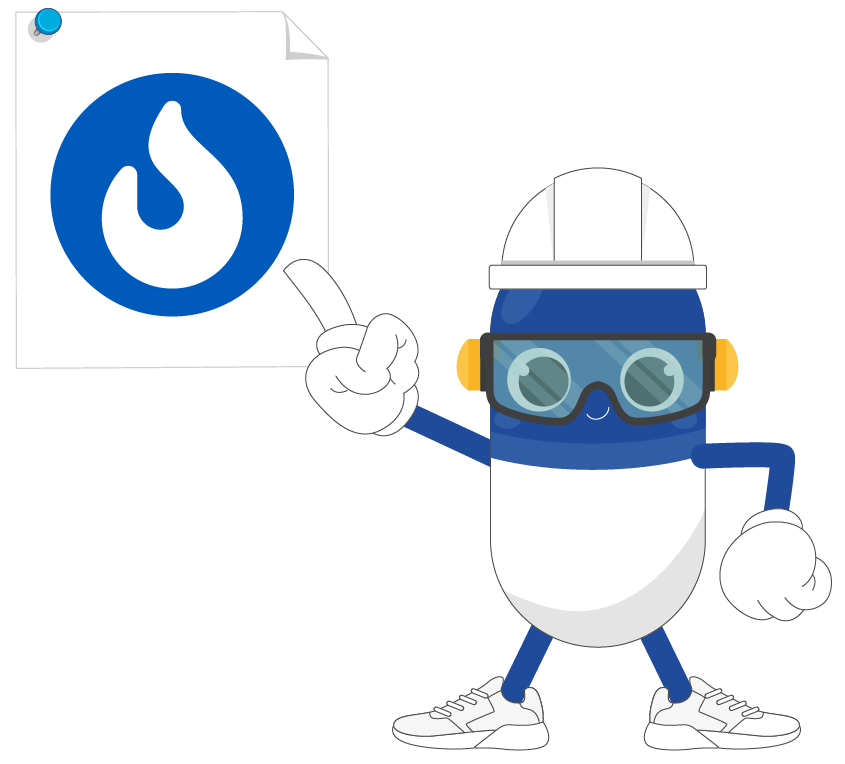
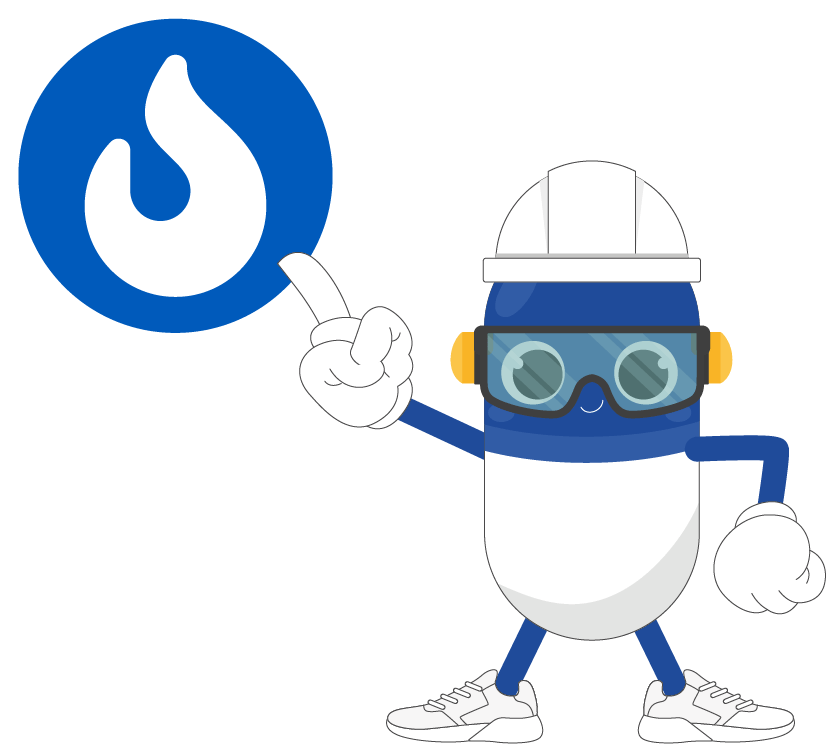
ajuste portada video

diff --git a/capsula_energia_termica/actividad.html b/capsula_energia_termica/actividad.html
@@ -108,18 +108,18 @@
 					<div class="col-lg-12 col-md-12">
 						<h1 class="tituloh1-center">Energía Térmica </h1>
 						<hr>
-						<i class="inst mb-2">Observa atentamente este video que te permitirá conocer este tipo de ENERGÍA PELIGROSA en nuestra operación, y las recomendaciones para prevenir sus riesgos:</i>		
+						<p class="parrafo-center">Observa atentamente este video que te permitirá conocer este tipo de ENERGÍA PELIGROSA en nuestra operación, y las recomendaciones para prevenir sus riesgos:</p>		
 					</div>	
 					
 					<div class="col-lg-6 col-md-12">
 						
 						<div class="media-espanol contenedor-center">
-							<video controls poster class="mx-auto videocontainer">
+							<video controls poster="assets/img/poster_termica.jpg" class="mx-auto videocontainer">
 								<source src="assets/video/Energia_Termica.mp4" type="video/mp4">
 							</video>
 						</div>
 						<div class="media-ingles contenedor-center">
-							<video controls poster class="mx-auto videocontainer">
+							<video controls poster="assets/img/poster_termica_ingles.jpg" class="mx-auto videocontainer">
 								<source src="assets/video/Energia_Termica_ingles.mp4" type="video/mp4">
 							</video>
 						</div>
@@ -157,7 +157,7 @@
 					<div class="itemQ view">
 						<div class="row">
 						<div class="col-lg-8 col-md-6"  style="display: flex; justify-content: center;">
-						<p class="parrafo-center"><b>Ítem 1</b>
+						<p class="parrafo-center">
 							<br>
 							En nuestra operación se encuentran formas de energía térmica como calderas, exhostos e intercambiadores de calor 
 						</p>
@@ -175,7 +175,7 @@
 					<div class="itemQ">
 						<div class="row">
 							<div class="col-lg-8 col-md-6"  style="display: flex; justify-content: center;">
-								<p class="parrafo-center"> <b>Ítem 2</b>
+								<p class="parrafo-center"> 
 									<br>
 									No debemos hacer mantenimiento a los equipos que presentan energía térmica
 								</p>
@@ -194,7 +194,7 @@
 					<div class="itemQ">
 						<div class="row">
 							<div class="col-lg-8 col-md-6"  style="display: flex; justify-content: center;">
-								<p class="parrafo-center"> <b>Ítem 3</b>
+								<p class="parrafo-center"> 
 									<br>
 									La hidratación adecuada es una de las formas de cuidarse en presencia de esta energía peligrosa 
 								</p>
@@ -213,7 +213,7 @@
 					<div class="itemQ">
 						<div class="row">
 							<div class="col-lg-8 col-md-6"  style="display: flex; justify-content: center;">
-								<p class="parrafo-center"><b>Ítem 4</b>
+								<p class="parrafo-center">
 									<br>
 									El LOTO para este tipo de energía peligrosa es el Bloqueo mecánico en válvulas para evitar paso 
 								</p>
@@ -229,7 +229,6 @@
 						</div>
 					</div>
 					
-
 					<div class="actFin" style="display:none;">
 						<br>
 						<p class="parrafo-res">Respuesta correctas</p>

diff --git a/capsula_energia_termica/index.html b/capsula_energia_termica/index.html
@@ -287,7 +287,7 @@
             <label for="cedula" class="labelform">Cédula:</label>
             <input type="number" id="cedula" name="cedula" required class="inputform">
             
-            <button class="button btn-enviar">Enviar</button>
+            <button class="button btn-enviar">Ingresar</button>
             <br>
             <br>
             <br>

diff --git a/capsula_energia_electrica/assets/css/style.css b/capsula_energia_electrica/assets/css/style.css
@@ -1987,7 +1987,6 @@ iframe:after {
     }
 
 
-
     @media(max-width: 734px){
         .actVorF .itemQ {
             display: none;
